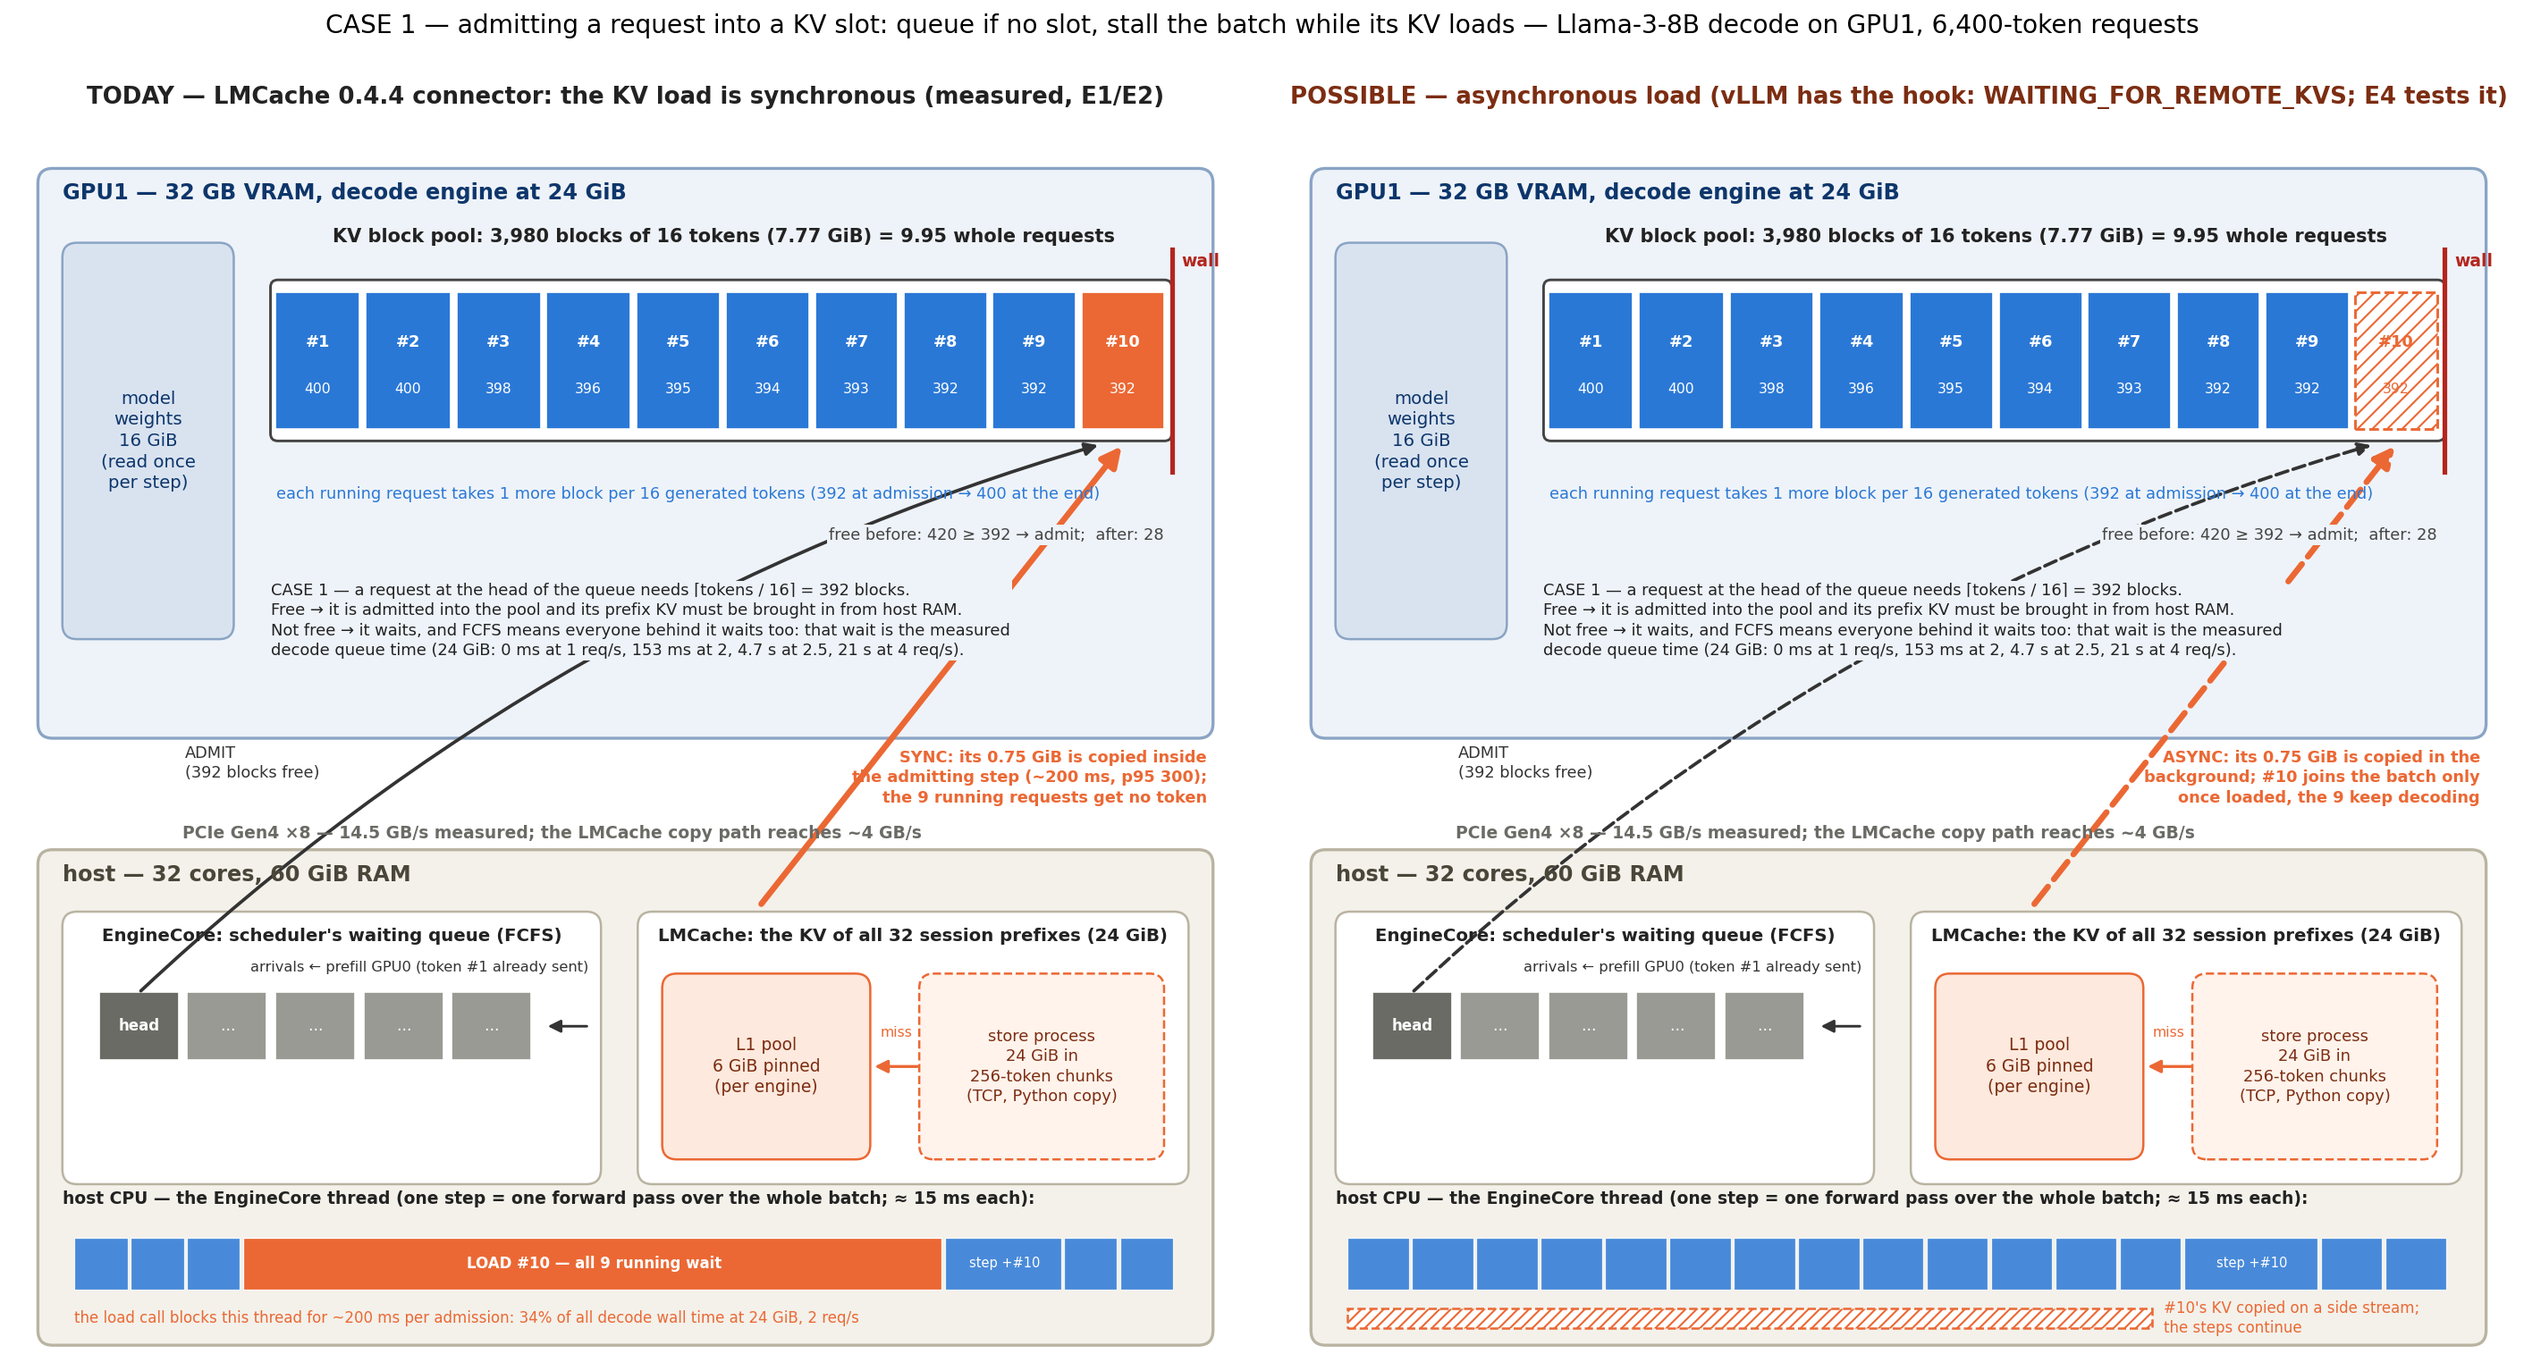
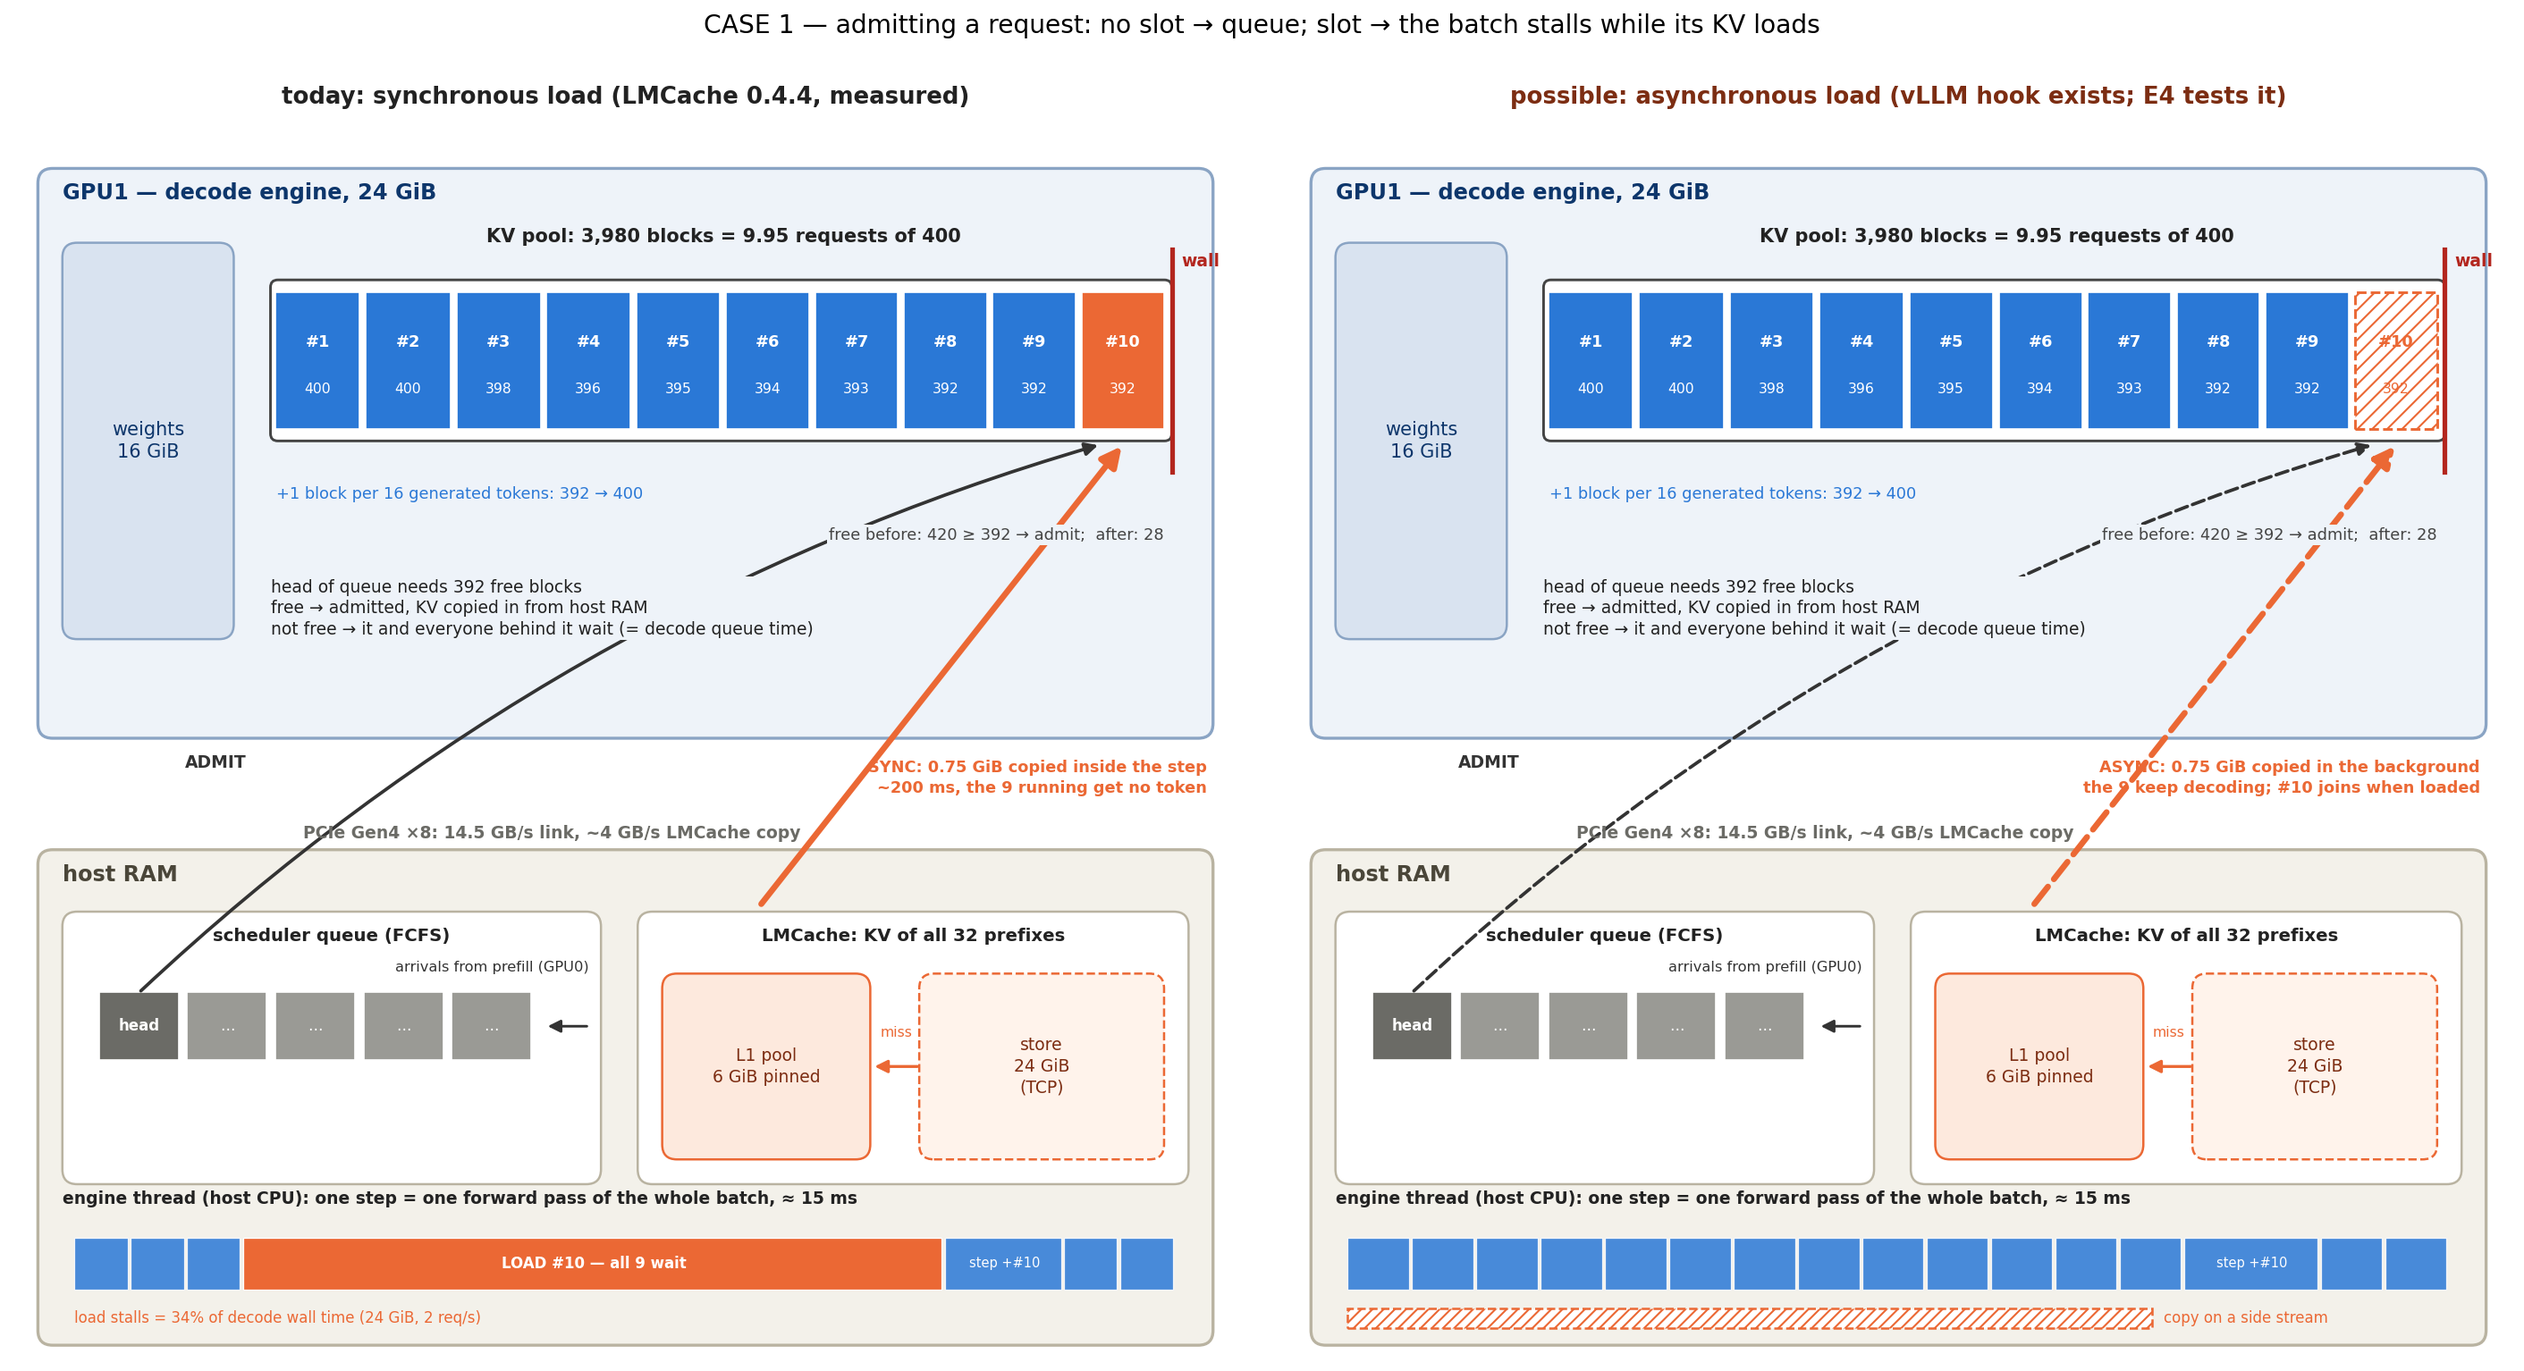
KV-slot study: case figures with shorter text

diff --git a/scripts/plots/plot_kv_cases.py b/scripts/plots/plot_kv_cases.py
@@ -53,12 +53,12 @@ def base(ax, held, queue_head="head", queue_head_color="#6b6b66"):
     ax.set_ylim(0, 100)
     ax.axis("off")
     rbox(ax, 2, 50, 96, 46, C_GPU, "#8aa4c4", lw=1.6)
-    txt(ax, 4, 94, "GPU1 — 32 GB VRAM, decode engine at 24 GiB", 11.5, "#0d366b", ha="left", bold=True)
+    txt(ax, 4, 94, "GPU1 — decode engine, 24 GiB", 11.5, "#0d366b", ha="left", bold=True)
     rbox(ax, 4, 58, 14, 32, "#d9e3f0", "#8aa4c4")
-    txt(ax, 11, 74, "model\nweights\n16 GiB\n(read once\nper step)", 9.5, "#0d366b")
+    txt(ax, 11, 74, "weights\n16 GiB", 10, "#0d366b")
     rbox(ax, PX0, PY, (PX1 - PX0) * POOL / 4000, PH, "white", "#444", lw=1.4, r=0.6)
-    txt(ax, (PX0 + PX1) / 2, 90.5, f"KV block pool: {POOL:,} blocks of 16 tokens (7.77 GiB) = "
-        f"{POOL / 400:.2f} whole requests", 10, "#222", bold=True)
+    txt(ax, (PX0 + PX1) / 2, 90.5, f"KV pool: {POOL:,} blocks = {POOL / 400:.2f} requests of 400",
+        10, "#222", bold=True)
     pos = {}
     x = PX0 + 0.4
     for lab, b, kind in held:
@@ -84,17 +84,14 @@ def base(ax, held, queue_head="head", queue_head_color="#6b6b66"):
     wall = PX0 + POOL * SCALE
     ax.plot([wall, wall], [PY - 2.5, PY + PH + 2.5], color=C_PRE, lw=2.5)
     txt(ax, wall + 0.8, PY + PH + 1.5, "wall", 9, C_PRE, ha="left", bold=True)
-    txt(ax, PX0 + 0.5, PY - 4.3, "each running request takes 1 more block per 16 generated tokens "
-        "(392 at admission → 400 at the end)", 8.5, C_RUN, ha="left")
-    txt(ax, PX1 - 1, PY - 4.3, "", 8.5)
+    txt(ax, PX0 + 0.5, PY - 4.3, "+1 block per 16 generated tokens: 392 → 400", 8.5, C_RUN, ha="left")
     # PCIe
-    txt(ax, 44, 42.3, "PCIe Gen4 ×8 — 14.5 GB/s measured; the LMCache copy path reaches ~4 GB/s",
-        9, C_PCIE, bold=True)
+    txt(ax, 44, 42.3, "PCIe Gen4 ×8: 14.5 GB/s link, ~4 GB/s LMCache copy", 9, C_PCIE, bold=True)
     # host
     rbox(ax, 2, 1, 96, 40, C_HOST, "#b9b3a1", lw=1.6)
-    txt(ax, 4, 39, "host — 32 cores, 60 GiB RAM", 11.5, "#4a4639", ha="left", bold=True)
+    txt(ax, 4, 39, "host RAM", 11.5, "#4a4639", ha="left", bold=True)
     rbox(ax, 4, 14, 44, 22, "white", "#b9b3a1")
-    txt(ax, 26, 34, "EngineCore: scheduler's waiting queue (FCFS)", 9.5, "#222", bold=True)
+    txt(ax, 26, 34, "scheduler queue (FCFS)", 9.5, "#222", bold=True)
     qx = 7
     for i in range(5):
         c = C_WAIT if i else queue_head_color
@@ -102,17 +99,17 @@ def base(ax, held, queue_head="head", queue_head_color="#6b6b66"):
         txt(ax, qx + 3.25, 26.75, queue_head if i == 0 else "…", 8, "white", bold=(i == 0))
         qx += 7.2
     arrow(ax, (47, 26.75), (qx + 0.5, 26.75), "#333", lw=1.4)
-    txt(ax, 47, 31.5, "arrivals ← prefill GPU0 (token #1 already sent)", 7.8, "#333", ha="right")
+    txt(ax, 47, 31.5, "arrivals from prefill (GPU0)", 7.8, "#333", ha="right")
     rbox(ax, 51, 14, 45, 22, "white", "#b9b3a1")
-    txt(ax, 73.5, 34, "LMCache: the KV of all 32 session prefixes (24 GiB)", 9.5, "#222", bold=True)
+    txt(ax, 73.5, 34, "LMCache: KV of all 32 prefixes", 9.5, "#222", bold=True)
     rbox(ax, 53, 16, 17, 15, "#fde9dd", C_NEW, lw=1.2)
-    txt(ax, 61.5, 23.5, "L1 pool\n6 GiB pinned\n(per engine)", 9, "#7c2d12")
+    txt(ax, 61.5, 23.5, "L1 pool\n6 GiB pinned", 9, "#7c2d12")
     rbox(ax, 74, 16, 20, 15, "#fff3eb", C_NEW, lw=1.2, ls="--")
-    txt(ax, 84, 23.5, "store process\n24 GiB in\n256-token chunks\n(TCP, Python copy)", 8.6, "#7c2d12")
+    txt(ax, 84, 23.5, "store\n24 GiB\n(TCP)", 9, "#7c2d12")
     arrow(ax, (74, 23.5), (70.2, 23.5), C_NEW, lw=1.6)
     txt(ax, 72.1, 26.2, "miss", 7.5, C_NEW)
-    txt(ax, 4, 12.8, "host CPU — the EngineCore thread (one step = one forward pass over the whole batch; "
-        "≈ 15 ms each):", 9, "#222", ha="left", bold=True)
+    txt(ax, 4, 12.8, "engine thread (host CPU): one step = one forward pass of the whole batch, ≈ 15 ms",
+        9, "#222", ha="left", bold=True)
     return pos
 
 
@@ -150,42 +147,38 @@ def case1(ax, async_mode):
     free_before = POOL - sum(b for _, b, k in held if k == "run")
     txt(ax, PX1 - 1, PY - 7.6, f"free before: {free_before} ≥ 392 → admit;  after: {free_before - 392}",
         8.5, "#444", ha="right", bg=C_GPU)
-    txt(ax, PX0, 59.5,
-        "CASE 1 — a request at the head of the queue needs ⌈tokens / 16⌉ = 392 blocks.\n"
-        "Free → it is admitted into the pool and its prefix KV must be brought in from host RAM.\n"
-        "Not free → it waits, and FCFS means everyone behind it waits too: that wait is the measured\n"
-        "decode queue time (24 GiB: 0 ms at 1 req/s, 153 ms at 2, 4.7 s at 2.5, 21 s at 4 req/s).",
-        8.6, "#222", ha="left", bg=C_GPU)
+    txt(ax, PX0, 60.5,
+        "head of queue needs 392 free blocks\n"
+        "free → admitted, KV copied in from host RAM\n"
+        "not free → it and everyone behind it wait (= decode queue time)",
+        9, "#222", ha="left", bg=C_GPU)
     # admit arrow + load arrow
     arrow(ax, (10.3, 29.5), (x10 + 1.5, PY - 0.3), "#333", lw=1.8, ls=dash, rad=-0.12)
-    txt(ax, 14, 48, "ADMIT\n(392 blocks free)", 8.5, "#333", ha="left")
+    txt(ax, 14, 48, "ADMIT", 9, "#333", ha="left", bold=True)
     arrow(ax, (61, 36.5), (x10 + w10 / 2, PY - 0.3), C_NEW, lw=3.2, ls=dash, ms=22)
     txt(ax, 97.5, 46.8,
-        ("SYNC: its 0.75 GiB is copied inside\nthe admitting step (~200 ms, p95 300);\n"
-         "the 9 running requests get no token" if not async_mode else
-         "ASYNC: its 0.75 GiB is copied in the\nbackground; #10 joins the batch only\nonce loaded, "
-         "the 9 keep decoding"),
+        ("SYNC: 0.75 GiB copied inside the step\n~200 ms, the 9 running get no token" if not async_mode else
+         "ASYNC: 0.75 GiB copied in the background\nthe 9 keep decoding; #10 joins when loaded"),
         8.5, C_NEW, ha="right", bold=True)
     if not async_mode:
-        seq = [("step", 16, C_RUN)] * 3 + [("LOAD #10 — all 9 running wait", 200, C_NEW)] + \
+        seq = [("step", 16, C_RUN)] * 3 + [("LOAD #10 — all 9 wait", 200, C_NEW)] + \
               [("step +#10", 34, C_RUN)] + [("step", 16, C_RUN)] * 2
-        timeline(ax, seq, "the load call blocks this thread for ~200 ms per admission: 34% of all "
-                 "decode wall time at 24 GiB, 2 req/s")
+        timeline(ax, seq, "load stalls = 34% of decode wall time (24 GiB, 2 req/s)")
     else:
         seq = [("step", 16, C_RUN)] * 13 + [("step +#10", 34, C_RUN)] + [("step", 16, C_RUN)] * 2
-        timeline(ax, seq, "", side=(200, "#10's KV copied on a side stream;\nthe steps continue"))
+        timeline(ax, seq, "", side=(200, "copy on a side stream"))
 
 
 fig, axes = plt.subplots(1, 2, figsize=(19, 10.5))
 fig.subplots_adjust(wspace=0.04, left=0.01, right=0.99, top=0.9, bottom=0.02)
 case1(axes[0], False)
 case1(axes[1], True)
-axes[0].set_title("TODAY — LMCache 0.4.4 connector: the KV load is synchronous (measured, E1/E2)",
+axes[0].set_title("today: synchronous load (LMCache 0.4.4, measured)",
                   fontsize=12.5, fontweight="bold", color="#222", pad=8)
-axes[1].set_title("POSSIBLE — asynchronous load (vLLM has the hook: WAITING_FOR_REMOTE_KVS; E4 tests it)",
+axes[1].set_title("possible: asynchronous load (vLLM hook exists; E4 tests it)",
                   fontsize=12.5, fontweight="bold", color="#7c2d12", pad=8)
-fig.suptitle("CASE 1 — admitting a request into a KV slot: queue if no slot, stall the batch while its KV "
-             "loads — Llama-3-8B decode on GPU1, 6,400-token requests", fontsize=13.5, y=0.975)
+fig.suptitle("CASE 1 — admitting a request: no slot → queue; slot → the batch stalls while its KV loads",
+             fontsize=13.5, y=0.975)
 fig.savefig(REPO / "figures" / "kv_case1_admission.png", dpi=150, bbox_inches="tight")
 print("-> figures/kv_case1_admission.png")
 
@@ -196,57 +189,50 @@ def case2(ax, after):
         held = [(f"#{i + 1}", b, "run") for i, b in
                 enumerate([400, 400, 400, 399, 399, 398, 398, 397, 396, 393])]
         pos = base(ax, held)
-        txt(ax, PX1 - 1, PY - 7.6, "free: 0 blocks — #5 needs its next block this step", 8.5, C_PRE,
+        txt(ax, PX1 - 1, PY - 7.6, "free: 0 — #5 needs a block", 8.5, C_PRE,
             ha="right", bold=True, bg=C_GPU)
         x10, w10 = pos["#10"]
-        txt(ax, PX0, 59.5,
-            "CASE 2 — all ten were admitted (10 × 392 = 3,920 ≤ 3,980), but they grow: 10 × 400 = 4,000 "
-            "> 3,980.\nWhen a running request needs a block and none is free, the scheduler EVICTS the "
-            "most recently\nadmitted running request (#10): all its blocks are freed, its computed "
-            "tokens are reset to 0,\nand it is put at the HEAD of the waiting queue. No GPU work is "
-            "lost for the other nine.",
-            8.6, "#222", ha="left", bg=C_GPU)
+        txt(ax, PX0, 60.5,
+            "10 × 392 = 3,920 fit at admission, 10 × 400 = 4,000 do not\n"
+            "no free block → the last-admitted request (#10) is evicted:\n"
+            "blocks freed, progress reset, back to the HEAD of the queue",
+            9, "#222", ha="left", bg=C_GPU)
         arrow(ax, (x10 + w10 / 2, PY + 0.5), (10.3, 29.5), C_PRE, lw=2.2, ls="--", rad=0.18)
-        txt(ax, 36, 46, "EVICT #10 → head of the queue\n(its 393 blocks return to the pool)", 8.8,
-            C_PRE, ha="left", bold=True)
-        seq = [("step", 16, C_RUN)] * 6 + [("evict #10", 4, C_PRE)] + [("step (9 running)", 16, C_RUN)] * 6
-        timeline(ax, seq, "eviction itself costs no stall — the nine others keep stepping; the cost "
-                 "lands on #10 later (right panel)", C_PRE)
+        txt(ax, 36, 46, "EVICT #10 → head of queue", 9, C_PRE, ha="left", bold=True)
+        seq = [("step", 16, C_RUN)] * 6 + [("evict #10", 4, C_PRE)] + [("step", 16, C_RUN)] * 6
+        timeline(ax, seq, "no stall at eviction; the cost comes later (right)", C_PRE)
     else:
         held = [(f"#{i + 1}", b, "run") for i, b in enumerate([400, 400, 400, 399, 399, 398, 398, 397, 396])]
         held.append(("#10", 393, "gone"))
         pos = base(ax, held, queue_head="#10", queue_head_color=C_PRE)
         x10, w10 = pos["#10"]
-        txt(ax, PX1 - 1, PY - 7.6, "free: 393 — but #10 now needs 394+ (6,272 + its generated tokens)",
-            8.5, C_PRE, ha="right", bold=True, bg=C_GPU)
-        txt(ax, PX0, 59.5,
-            "#10 sits at the head of the queue needing MORE blocks than before (its generated tokens "
-            "count too),\nwhile the nine keep growing — so it waits until one of them finishes (~1–3 s). "
-            "Then it is admitted\nagain: its 6,144-token prefix is LOADED A SECOND TIME (another ~200 ms "
-            "stall for everyone) and its\nsuffix + generated tokens are recomputed. 24 GiB: 9–35 evictions "
-            "per 300 requests; 26 / 28 GiB: none.",
-            8.6, "#222", ha="left", bg=C_GPU)
+        txt(ax, PX1 - 1, PY - 7.6, "free: 393 — #10 now needs 394+", 8.5, C_PRE, ha="right",
+            bold=True, bg=C_GPU)
+        txt(ax, PX0, 60.5,
+            "#10 needs more blocks than before (its generated tokens count)\n"
+            "it waits until one of the nine finishes (1–3 s), then is admitted again:\n"
+            "prefix KV loaded a second time (another stall), suffix + generated tokens recomputed",
+            9, "#222", ha="left", bg=C_GPU)
         arrow(ax, (10.3, 29.5), (x10 + 1.5, PY - 0.3), "#333", lw=1.8, ls="--", rad=-0.12)
-        txt(ax, 14, 48, "RE-ADMIT later\n(when 394+ free)", 8.5, "#333", ha="left")
+        txt(ax, 14, 48, "RE-ADMIT later", 9, "#333", ha="left", bold=True)
         arrow(ax, (61, 36.5), (x10 + w10 / 2, PY - 0.3), C_NEW, lw=3.2, ls="--", ms=22)
-        txt(ax, 97.5, 46.8, "LOAD AGAIN: the same 0.75 GiB,\nanother ~200 ms with the batch\nstopped",
-            8.5, C_NEW, ha="right", bold=True)
-        seq = [("step (9 running)", 16, C_RUN)] * 5 + [("#3 finishes", 4, C_PRE)] + \
-              [("LOAD #10 again — all wait", 200, C_NEW)] + [("+#10 again", 40, C_RUN)] + \
+        txt(ax, 97.5, 46.8, "LOAD AGAIN: same 0.75 GiB,\nanother ~200 ms stall", 8.5, C_NEW,
+            ha="right", bold=True)
+        seq = [("step", 16, C_RUN)] * 5 + [("#3 done", 4, C_PRE)] + \
+              [("LOAD #10 again — all wait", 200, C_NEW)] + [("+#10", 40, C_RUN)] + \
               [("step", 16, C_RUN)] * 2
-        timeline(ax, seq, "at saturation the mean 'KV load' per request rises from 300 ms to "
-                 "865–1,367 ms at 24 GiB: these reloads")
+        timeline(ax, seq, "reloads raise the mean load per request from 0.3 s to 0.9–1.4 s at saturation")
 
 
 fig, axes = plt.subplots(1, 2, figsize=(19, 10.5))
 fig.subplots_adjust(wspace=0.04, left=0.01, right=0.99, top=0.9, bottom=0.02)
 case2(axes[0], False)
 case2(axes[1], True)
-axes[0].set_title("the pool is exhausted while requests grow → EVICT", fontsize=12.5,
+axes[0].set_title("growing requests exhaust the pool → evict", fontsize=12.5,
                   fontweight="bold", color=C_PRE, pad=8)
-axes[1].set_title("a few seconds later: the evicted request comes back and its KV is loaded again",
+axes[1].set_title("seconds later: the evicted request returns, its KV is loaded again",
                   fontsize=12.5, fontweight="bold", color="#7c2d12", pad=8)
-fig.suptitle("CASE 2 — running requests hit the wall: eviction to the head of the queue, then a second "
-             "KV load — the 24 GiB budget (9.95 slots) only", fontsize=13.5, y=0.975)
+fig.suptitle("CASE 2 — running requests hit the wall (24 GiB only: 9.95 slots; none at 26 / 28 GiB)",
+             fontsize=13.5, y=0.975)
 fig.savefig(REPO / "figures" / "kv_case2_eviction.png", dpi=150, bbox_inches="tight")
 print("-> figures/kv_case2_eviction.png")
